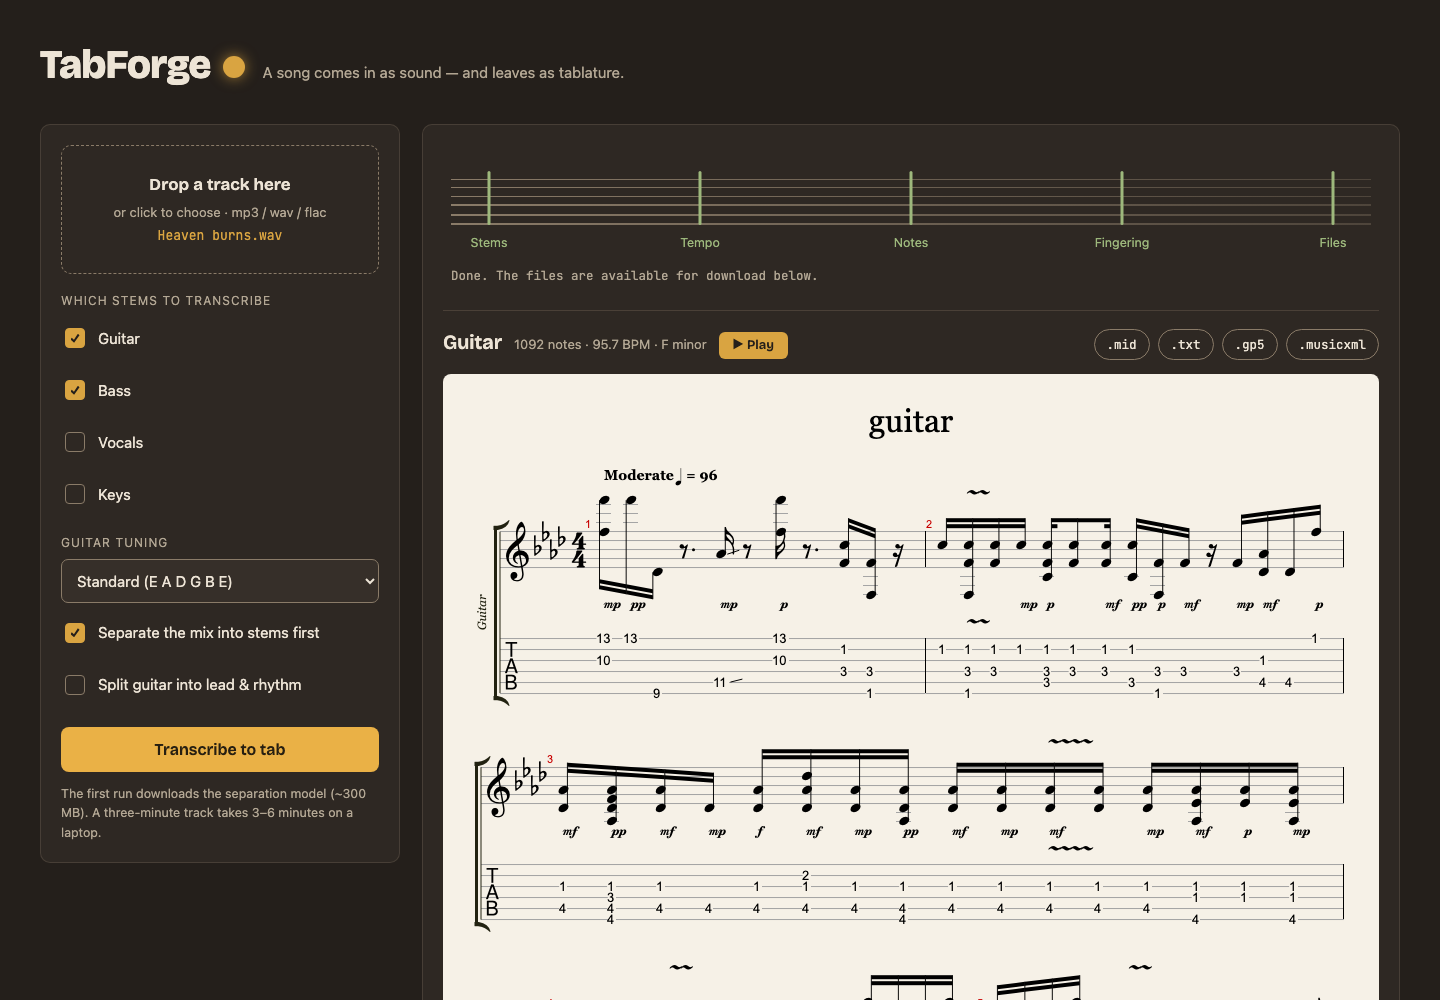
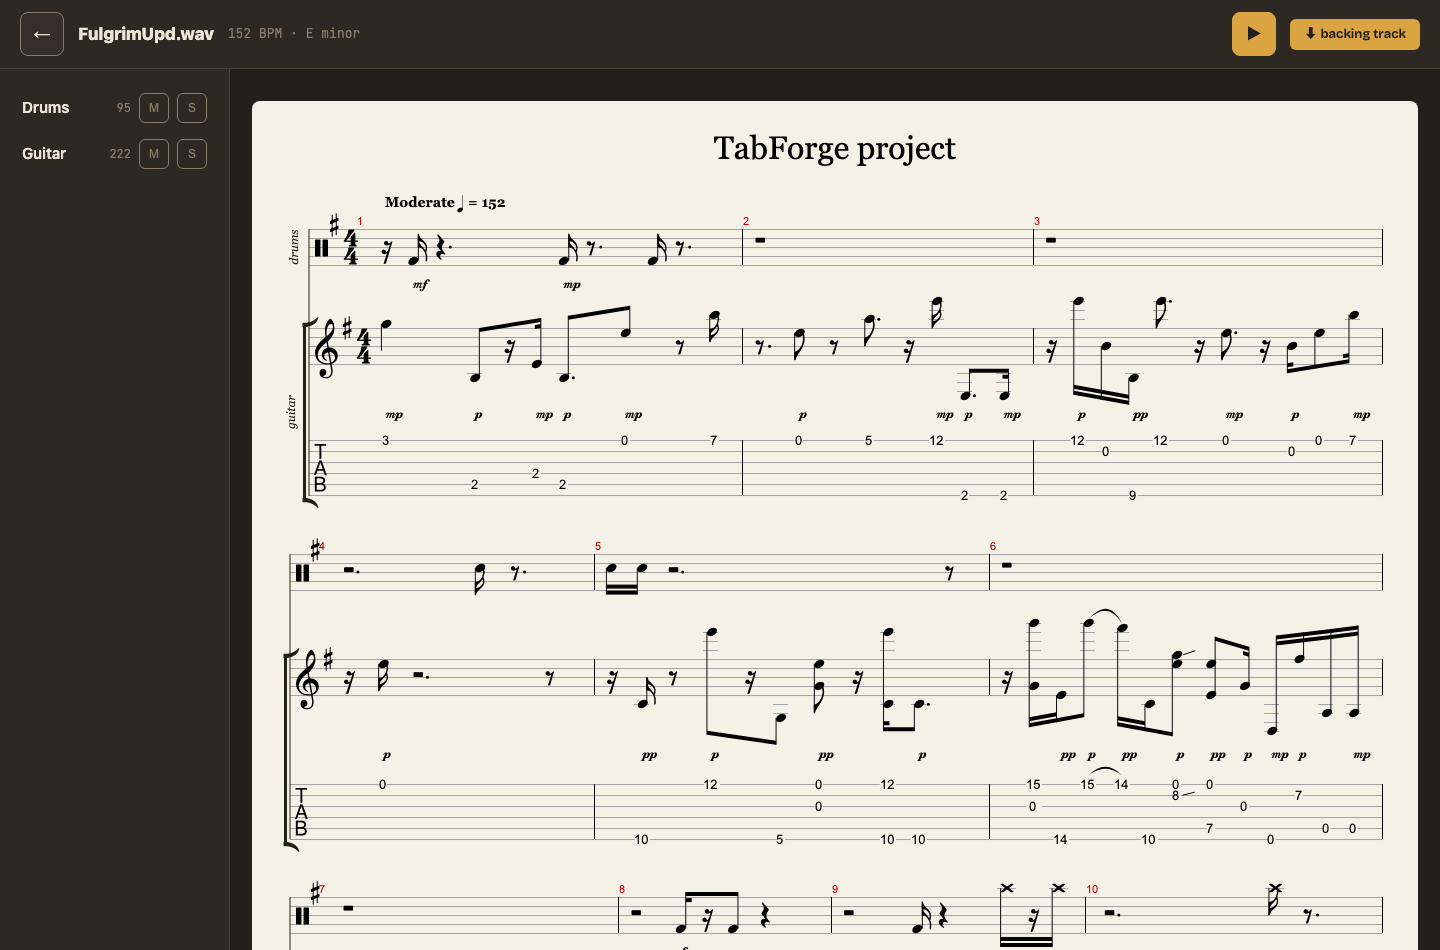
v0.4.0 prep: Phase 7 in the README, fresh screenshots, version bump
The README gains the project-player phase (two-step analyze flow,
instrument profiles, tick export, unified player with mute/solo, the
note editor, the drum track) with screenshots of both screens, and an
honest-limitations line about the spectral drum heuristic. Version
0.4.0 in pyproject and the service worker (old PWA shells purge on
deploy).

diff --git a/frontend/sw.js b/frontend/sw.js
@@ -7,7 +7,7 @@
  */
 "use strict";
 
-const VERSION = "0.3.1-dev";
+const VERSION = "0.4.0";
 const CACHE = `tabforge-shell-${VERSION}`;
 const SHELL = [
   "/",

diff --git a/README.md b/README.md
@@ -8,10 +8,12 @@ One codebase — three platforms: laptop, browser, mobile.
 ```bash
 docker compose up -d --build      # 1. build & start
 open http://localhost:8000        # 2. open the app
-#                                   3. drop a track, press "Transcribe to tab"
+#                                   3. drop a track — it gets analyzed,
+#                                      you pick the instruments, and the
+#                                      project opens as a playable score
 ```
 
-![TabForge with a transcribed track](docs/screenshot-main.png)
+![The TabForge project screen](docs/screenshot-main.png)
 
 No Docker? Grab **TabForge.app** from the
 [latest release](https://github.com/rayBastard/tabforge/releases/latest)
@@ -120,6 +122,35 @@ opens standalone with the lamp icon.
 Remaining tail as an issue: vendoring alphaTab + the soundfont for a
 fully offline PWA (#8).
 
+### Phase 7 — the project player ✅ (done)
+- [x] two-step flow: the track is separated and **analyzed** first —
+      each instrument card shows whether it sounds at all
+      (found / quiet / absent), its note range, and a suggested tuning
+      (a D2 low note suggests drop D; a bass below E1 hints at a
+      5-string) — then only the instruments you pick are transcribed,
+      from the cached stems; changing the selection never re-runs demucs
+- [x] instrument profiles: keys and vocals are notation-only (no bends,
+      slides, or hammer-ons — legato becomes a slur), every track plays
+      with its own MIDI program, rolled piano chords are gathered back
+      into real chords
+- [x] tick-based gp5 export: note positions ride the detected beat
+      grid, so a Suno track whose tempo breathes no longer drifts into
+      wrong measures
+- [x] backing track mixed from the stems you did NOT pick — practice
+      over the rest of the band
+- [x] the project screen: transport bar, track list with per-track
+      **mute/solo**, and ONE multi-track score (a single alphaTab
+      instance with a playback cursor) instead of per-stem fragments
+- [x] the note editor: click any note, pick the string/fret it should
+      live on — the fingering search re-arranges the surrounding notes
+      around your pin; one-step undo
+- [x] drum track: percussion is transcribed by onsets + spectral kit
+      classification (kick / snare / hi-hat / tom / crash), rendered as
+      a percussion staff (GM channel 10) in the project score, with a
+      K/S/H ASCII grid and its own .gp5/.mid downloads
+
+![Analyze step: instrument cards](docs/screenshot-start.png)
+
 ## Installation (development)
 
 ```bash
@@ -138,7 +169,7 @@ python -m tabforge.desktop
 uvicorn tabforge.server.app:app --port 8000   # open http://localhost:8000
 
 # console, no UI
-tabforge song.mp3 --stems guitar bass --out ./result
+tabforge song.mp3 --stems guitar bass drums --out ./result
 
 # core tests (fast, no ML)
 python -m unittest discover -s tests
@@ -253,3 +284,7 @@ All behavior lives in `TabConfig` (`src/tabforge/core/fretboard.py`):
   do occur. The algorithm finds the closest playable one.
 - Tempo changes within a track are averaged for now (the grid assumes
   one tempo per track).
+- Drum transcription is a spectral heuristic, not a learned model: it
+  hears kick/snare/cymbal reliably, but a kick+hi-hat played together
+  classifies as the louder voice, and toms are easily mistaken for
+  either neighbor.
